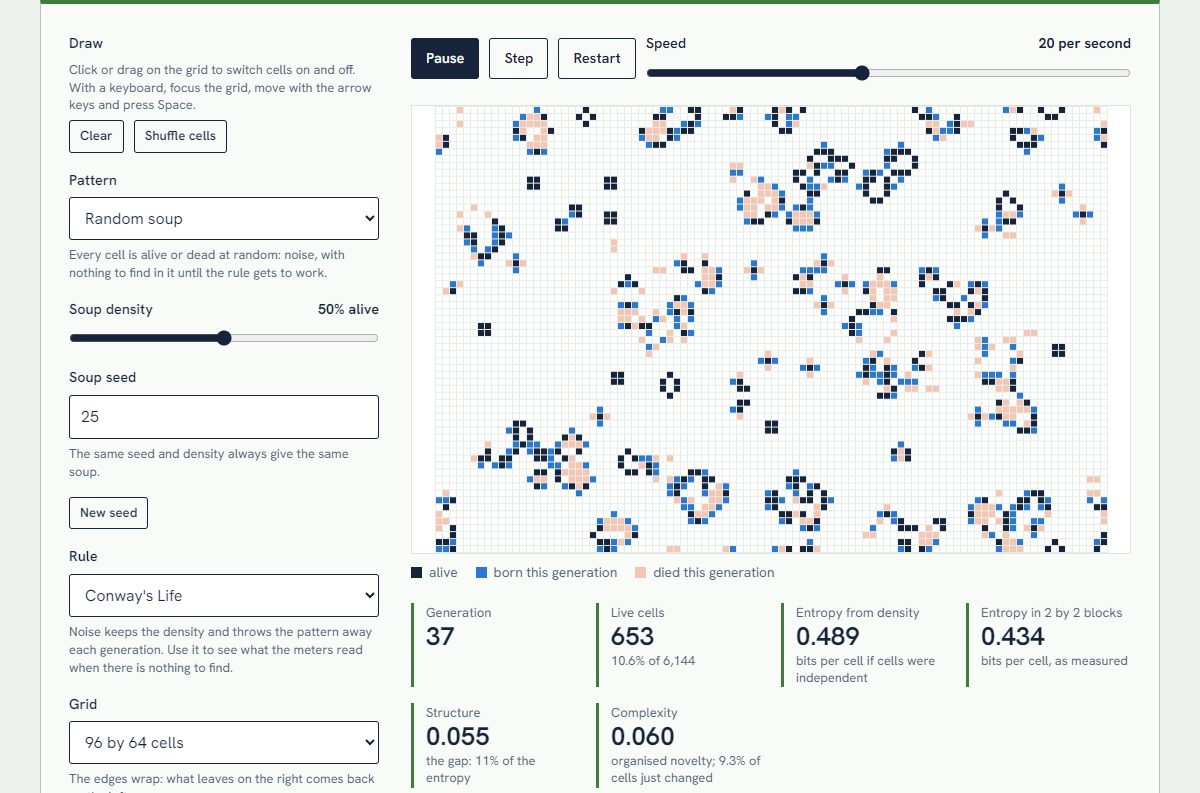
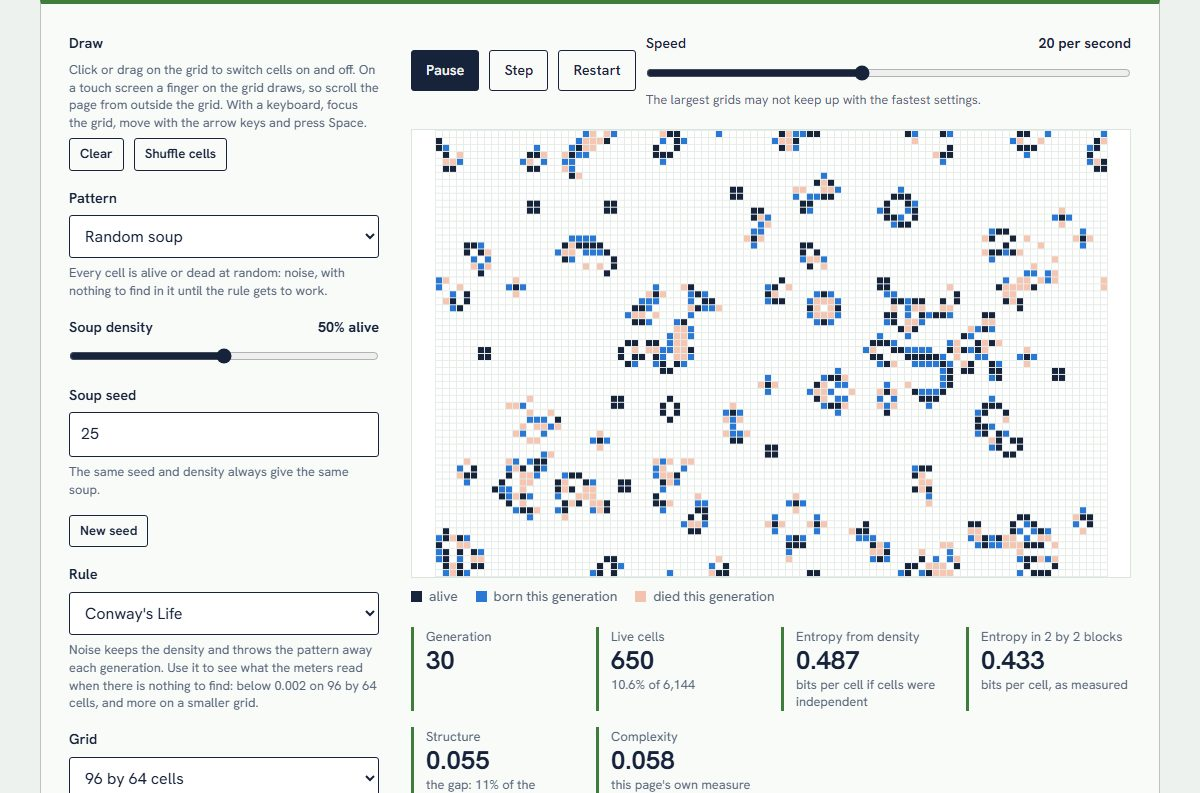
Review project 25: fix touch trap, keep drawings on restart, label the complexity measure

diff --git a/365projects/25/index.html b/365projects/25/index.html
@@ -19,6 +19,10 @@
     .gl-transport .field { flex: 1 1 200px; }
     .gl-stage [role="status"]:empty { display: none; }
     .gl-canvas canvas:focus-visible { outline: 3px solid var(--focus); outline-offset: 2px; }
+    .p-sec.finding p.aside { font: 400 0.98rem/1.55 var(--sans); color: var(--slate); border-left-color: transparent; }
+    .gl-where { margin: 6px 0 0; }
+    .gl-where:empty, .gl-note:empty { display: none; }
+    .gl-text { margin: 8px 0 0; padding: 8px; max-height: 300px; overflow: auto; border: 1px solid var(--grid); background: #fff; font: 0.62rem/1.05 var(--mono); letter-spacing: 0.12em; }
     .gl-key { list-style: none; margin: 8px 0 0; padding: 0; display: flex; flex-wrap: wrap; gap: 4px 18px; }
     .gl-key li { display: inline-flex; align-items: center; gap: 7px; }
     .gl-key i { width: 11px; height: 11px; flex: none; }
@@ -39,13 +43,14 @@
 
     <section class="p-sec finding">
       <h2>One finding</h2>
-      <p>A 96 by 64 soup with half its cells alive (seed 25) starts as noise: 1.000 bits of entropy per cell and 0.000 of structure. One generation of Life's rule cuts the density to 26.4% and creates 0.015 bits per cell of structure. Structure peaks at 0.070 at generation 48 and complexity at 0.079 at generation 160. At generation 1,770 the grid starts to repeat with 157 cells left: structure is still 0.030 and 0.9% of cells still flip every generation, but complexity is exactly zero. Noise redrawn every generation never reads above 0.002 on either meter.</p>
+      <p>A 96 by 64 soup with half its cells alive (seed 25) starts as noise: 1.000 bits of entropy per cell and 0.000 of structure. One generation of Life's rule cuts the density to 26.4% and creates 0.015 bits per cell of structure. Structure peaks at 0.070 at generation 48, and complexity, a measure made for this page and not a standard one, at 0.079 at generation 160. At generation 1,770 the grid starts to repeat with 157 cells left: structure is still 0.030 and 0.9% of cells still flip every generation, but complexity is exactly zero. On the same grid, noise redrawn every generation stayed below 0.002 on both meters for 8,000 generations.</p>
+      <p class="aside">A phone opens this page on a smaller grid, 48 by 32, where the same seed settles at generation 188 with 60 cells. Choose "96 by 64 cells" under Grid to see the run described here.</p>
     </section>
 
     <section class="p-sec">
       <h2>The idea</h2>
-      <p>John Conway's Game of Life has one rule, and it fits in a sentence: a cell is alive in the next generation if exactly three of its eight neighbours are alive now, or if it is alive now and exactly two are. Martin Gardner introduced it to the public in 1970. The glider, five cells that walk across the grid, was already known. Within the year Bill Gosper's group had found a gun that fires gliders for ever, and Berlekamp, Conway and Guy later showed that the rule can carry out any computation at all. None of these things is mentioned in the rule.</p>
-      <p>That gap is what the word <strong>emergence</strong> points at, and Life is the cleanest place to argue about it because nothing is hidden. A <strong>reductionist</strong> says, correctly, that every cell at every moment is fixed by the rule and the starting grid, so there is nothing over and above the cells. The reply, which Mark Bedau called weak emergence, grants that and adds two things. First, the glider is a pattern with regularities of its own ("it moves one cell diagonally every four generations") that let you predict the grid with far less work than updating cells. Daniel Dennett used Life to argue that such patterns are real for exactly that reason. Second, for many questions, such as whether a given soup ever settles, nobody knows a shortcut: the only way to find out is to run it. Philip Anderson's slogan for the general point was "more is different". What Life does not show is strong emergence, in which the higher level would have powers the cells and the rule do not fix. Here they fix everything, by construction.</p>
+      <p>John Conway's Game of Life has one rule, and it fits in a sentence: a cell is alive in the next generation if exactly three of its eight neighbours are alive now, or if it is alive now and exactly two are. Martin Gardner introduced it to the public in October 1970. The glider, five cells that walk across the grid, was already known. Before the year was out Bill Gosper's group at MIT had found a gun that fires gliders for ever, and Berlekamp, Conway and Guy later showed that the rule can carry out any computation at all. None of these things is mentioned in the rule.</p>
+      <p>That gap is what the word <strong>emergence</strong> points at, and Life is the cleanest place to argue about it because nothing is hidden. A <strong>reductionist</strong> says, correctly, that every cell at every moment is fixed by the rule and the starting grid, so there is nothing over and above the cells. The reply grants that and adds two things. First, the glider is a pattern with regularities of its own ("it moves one cell diagonally every four generations") that let you predict the grid with far less work than updating cells. Daniel Dennett used Life to argue that such patterns are real for exactly that reason. Second, for many questions, such as whether a given soup ever settles, nobody knows a shortcut: the only way to find out is to run it. Mark Bedau called this weak emergence: the large-scale behaviour follows from the rule, but can be derived only by simulating it. Philip Anderson's slogan for the general point was "more is different". What Life does not show is strong emergence, in which, on David Chalmers's definition, truths about the higher level could not be deduced even in principle from the lower one. Here the cells and the rule fix everything, by construction.</p>
       <p>The argument is not only about toy grids. When Hayek described prices as coordinating knowledge that no single mind holds, and when Schelling showed that mild individual preferences can produce sharply segregated cities, they were making claims of the same shape: an order that nobody put in, which is better described at its own level than at the level of its parts. Whether such descriptions explain anything, or merely summarise, is a live question in economics, in politics and in the philosophy of mind.</p>
       <p>This page tries the obvious empirical move: put a number on "order that was not put in" and watch it. The meters do show the rule manufacturing pattern out of noise. Whether that is a measurement of emergence is a separate question, and the answer given below is mostly no.</p>
     </section>
@@ -56,48 +61,53 @@
       <p>The grid has <var>N</var> cells, each 0 or 1, and wraps at its edges, so every cell has exactly eight neighbours and a glider that leaves on the right comes back on the left. Each generation the tool counts the live neighbours of every cell in the current grid and writes the result into a second array: alive if the count is 3, or if the count is 2 and the cell is alive already. The arrays are typed arrays of bytes and are reused, so nothing is allocated while it runs.</p>
       <h3>Density and the entropy it allows</h3>
       <p>The density <var>ρ</var> is the share of cells that are alive. If that were all you knew, and cells were independent of one another, describing the grid would cost</p>
-      <p class="eq"><var>H</var><sub>1</sub> = −<var>ρ</var> log<sub>2</sub> <var>ρ</var> − (1 − <var>ρ</var>) log<sub>2</sub>(1 − <var>ρ</var>) &nbsp; bits per cell</p>
-      <p>This is Shannon's entropy of a biased coin. It is 1 bit when half the cells are alive and 0 when the grid is empty or full. It says how much disorder the density leaves room for, not how much there is.</p>
+      <p class="eq"><var>H</var><sub>1</sub> = −<var>ρ</var> log<sub>2</sub> <var>ρ</var> − (1 − <var>ρ</var>) log<sub>2</sub>(1 − <var>ρ</var>)</p>
+      <p>bits per cell. This is Shannon's entropy of a biased coin. It is 1 bit when half the cells are alive and 0 when the grid is empty or full. It says how much disorder the density leaves room for, not how much there is.</p>
       <h3>Entropy in 2 by 2 blocks</h3>
       <p>To see how much disorder there is, the tool looks at cells four at a time. Every cell is taken once as the top-left corner of a 2 by 2 block, wrapping at the edges, which gives <var>N</var> overlapping blocks. Each block is one of 16 patterns. With <var>p</var><sub><var>b</var></sub> the share of blocks showing pattern <var>b</var>,</p>
-      <p class="eq"><var>H</var><sub>4</sub> = −Σ<sub><var>b</var></sub> <var>p</var><sub><var>b</var></sub> log<sub>2</sub> <var>p</var><sub><var>b</var></sub> &nbsp; bits per block, &nbsp; <var>h</var><sub>2</sub> = <var>H</var><sub>4</sub> / 4 &nbsp; bits per cell</p>
+      <p class="eq"><var>H</var><sub>4</sub> = −Σ<sub><var>b</var></sub> <var>p</var><sub><var>b</var></sub> log<sub>2</sub> <var>p</var><sub><var>b</var></sub> &nbsp; bits per block<br><var>h</var><sub>2</sub> = <var>H</var><sub>4</sub> / 4 &nbsp; bits per cell</p>
       <h3>Structure</h3>
       <p class="eq"><var>S</var> = <var>H</var><sub>1</sub> − <var>h</var><sub>2</sub></p>
-      <p>Because of the wrap, each of the four positions in a block is alive in exactly a share <var>ρ</var> of blocks, so independent cells would give <var>H</var><sub>4</sub> = 4<var>H</var><sub>1</sub>. The entropy of a whole is never more than the sum of the entropies of its parts, and equals it only when the parts are independent. So <var>S</var> is never negative, and it is zero only when the four cells of a block are independent of one another. 4<var>S</var> is what Watanabe called the total correlation of the block: the bits saved by describing four neighbours together instead of one by one. A checkerboard scores 0.75, because half its cells are alive yet only two of the sixteen blocks ever occur.</p>
+      <p>Because of the wrap, each of the four positions in a block is alive in exactly a share <var>ρ</var> of blocks, so independent cells would give <var>H</var><sub>4</sub> = 4<var>H</var><sub>1</sub>. The entropy of a whole is never more than the sum of the entropies of its parts, and equals it only when the parts are independent. So <var>S</var> is never negative, and it is zero only when the four cells of a block are independent of one another. 4<var>S</var> is what Watanabe called the total correlation of the block: the bits saved by describing four neighbours together instead of one by one. "Structure" is this page's name for it. A checkerboard scores 0.75, because half its cells are alive yet only two of the sixteen blocks ever occur, and nothing can score more: <var>H</var><sub>4</sub> is never less than the entropy of one of its four cells, so <var>S</var> is at most three quarters of <var>H</var><sub>1</sub>.</p>
       <h3>Activity and complexity</h3>
-      <p>Activity is the share of cells that changed in the last generation. It is high for noise and for a field of blinkers alike, so it is not a measure of anything interesting. For complexity the tool builds a <strong>novelty map</strong>: cell <var>i</var> is marked if its state differs from its state two generations ago.</p>
-      <p class="eq"><var>n</var><sub><var>t</var></sub>(<var>i</var>) = <var>x</var><sub><var>t</var></sub>(<var>i</var>) ⊕ <var>x</var><sub><var>t</var>−2</sub>(<var>i</var>), &nbsp; <var>ν</var> = share of cells marked, &nbsp; <var>C</var> = <var>H</var><sub>1</sub>(<var>ν</var>) − <var>H</var><sub>4</sub>(<var>n</var><sub><var>t</var></sub>) / 4</p>
-      <p>This is the structure measure again, applied to the novelty map in place of the grid. It asks how spatially organised the new things are. It was built to pass three checks. An empty grid has no novelty, so <var>C</var> = 0. A still life has none either, and nor does anything that repeats every two generations, which covers the blinkers that make up nearly all the moving debris Life leaves behind; that is the reason for looking two generations back and not one. Pure noise has plenty of novelty, but each cell's novelty is independent of its neighbours', so the gap closes and <var>C</var> is zero again. What scores above zero is change that hangs together in space: a glider, or the edge of a region that has not yet settled.</p>
+      <p>Activity is the share of cells that changed in the last generation. It is high for noise and for a field of blinkers alike, so it is not a measure of anything interesting.</p>
+      <p><strong>The complexity meter is this page's own construction. It is not a measure from the literature and has not been checked against one.</strong> The tool builds a <strong>novelty map</strong>: cell <var>i</var> is marked if its state differs from its state two generations ago. Complexity is the structure measure again, applied to the novelty map in place of the grid:</p>
+      <p class="eq"><var>n</var><sub><var>t</var></sub>(<var>i</var>) = <var>x</var><sub><var>t</var></sub>(<var>i</var>) ⊕ <var>x</var><sub><var>t</var>−2</sub>(<var>i</var>)<br><var>ν</var> = share of cells marked in <var>n</var><sub><var>t</var></sub><br><var>C</var> = <var>H</var><sub>1</sub>(<var>ν</var>) − <var>H</var><sub>4</sub>(<var>n</var><sub><var>t</var></sub>) / 4</p>
+      <p>Here ⊕ is "exclusive or" (1 when the two states differ), <var>H</var><sub>1</sub>(<var>ν</var>) is the coin entropy above with <var>ν</var> in place of <var>ρ</var>, and <var>H</var><sub>4</sub>(<var>n</var><sub><var>t</var></sub>) is the block entropy above counted on the novelty map. <var>C</var> is in bits per cell and is undefined for the first two generations. It asks how spatially organised the new things are, and it was built to pass three checks. An empty grid has no novelty, so <var>C</var> = 0. A still life has none either, and nor does anything that repeats every two generations, which covers the blinkers that make up nearly all the moving debris Life leaves behind; that is the reason for looking two generations back and not one. Pure noise has plenty of novelty, but each cell's novelty is independent of its neighbours', so the gap closes and <var>C</var> is zero again. What scores above zero is change that hangs together in space: a glider, or the edge of a region that has not yet settled.</p>
+      <p>What it cannot distinguish follows from the definition. It sees only 2 by 2 windows of the novelty map, so a glider, a spaceship and the ragged edge of a dying blob are the same thing to it: so many cells of organised change. It reads above zero for ever for anything that repeats with a period of three or more, such as a pulsar, or a glider going round the wrapped grid, so it does not tell repetition from novelty. And because it is an average over the grid, one object reads lower the larger the grid: a single glider reads about three times lower on a grid with four times the cells.</p>
       <h3>What the meters read on known cases</h3>
       <div class="tbl-wrap">
         <table class="tbl">
           <thead><tr><th scope="col">Grid (96 by 64)</th><th scope="col" class="num">Structure</th><th scope="col" class="num">Complexity</th></tr></thead>
           <tbody>
             <tr><td>Empty</td><td class="num">0.000</td><td class="num">0.000</td></tr>
-            <tr><td>Noise at any density, redrawn every generation</td><td class="num">below 0.002</td><td class="num">below 0.002</td></tr>
+            <tr><td>Noise redrawn every generation, at 5%, 20%, 50% and 80% alive</td><td class="num">below 0.002</td><td class="num">below 0.002</td></tr>
             <tr><td>Checkerboard, frozen</td><td class="num">0.750</td><td class="num">0.000</td></tr>
-            <tr><td>Blinkers on a regular lattice</td><td class="num">0.125</td><td class="num">0.000</td></tr>
-            <tr><td>One glider</td><td class="num">0.002</td><td class="num">0.001</td></tr>
+            <tr><td>Blinkers, one in every 4 by 4 square</td><td class="num">0.134</td><td class="num">0.000</td></tr>
+            <tr><td>One glider</td><td class="num">0.002</td><td class="num">0.001 to 0.003</td></tr>
+            <tr><td>One pulsar, which repeats every 3 generations</td><td class="num">0.014 to 0.028</td><td class="num">0.002 to 0.014</td></tr>
             <tr><td>The seed-25 soup at generation 100</td><td class="num">0.055</td><td class="num">0.061</td></tr>
           </tbody>
         </table>
       </div>
-      <p>All values are bits per cell. The noise figures are not exactly zero because entropies estimated from a finite grid are biased slightly downwards, and by different amounts for single cells and for blocks.</p>
+      <p>All values are bits per cell; complexity is this page's own measure. The glider's and the pulsar's readings depend on which phase of their cycle they are in. The noise figures are not exactly zero because entropies estimated from a finite grid are biased slightly downwards, and by different amounts for single cells and for blocks. The bias shrinks as the grid grows: noise averages about 0.0003 on both meters at 96 by 64 and about 0.0013 at 48 by 32, the grid a phone starts on, where about one generation in four reads 0.002 or more on one meter or the other. Readings that small mean nothing on the small grid.</p>
       <h3>The two controls for checking the meters</h3>
       <p>"Shuffle cells" deals the live cells out to random positions. The density, and so <var>H</var><sub>1</sub>, is untouched; the structure collapses to about zero. Setting the rule to "Noise" redraws every cell at random each generation, at the density the grid had when you switched. Both let you see for yourself what the meters read when there is nothing to find.</p>
       <h3>Settling</h3>
-      <p>After every generation the tool compares the grid with the grid two generations earlier. When they are equal, the pattern is a still life or a period-2 cycle and will never do anything new, so the tool says so and pauses. That is also the moment complexity reaches exactly zero. Random soups are reproducible: the seed and the density fix every cell.</p>
+      <p>After every generation the tool compares the grid with the grid two generations earlier. When they are equal, the pattern is a still life or a period-2 cycle and will never do anything new, so the tool says so and pauses. That is also the moment complexity reaches exactly zero. Random soups are reproducible: the seed and the density fix every cell. "Restart" goes back to generation 0, with anything that was drawn on the grid before it ran.</p>
+      <h3>The grid on a small screen</h3>
+      <p>A finger that starts on the grid draws and does not scroll the page, so the grid is never allowed more than six tenths of the screen's height, which leaves room to scroll from above or below it. Narrow or short screens start on 48 by 32 cells so that a cell is big enough to touch. Every number quoted on this page is for 96 by 64 unless it says otherwise. "Show the grid as text" under the meters gives the same grid as rows of characters.</p>
     </section>
 
     <section class="p-sec">
       <h2>What this cannot tell you</h2>
       <ul>
         <li><strong>Whether anything has emerged.</strong> Claims about emergence are claims about levels of description: that "glider" names something real, that the glider level predicts or explains in a way the cell level does not. The meters are statistics of four neighbouring cells. They register that the rule turns noise into pattern, and they are silent on whether that pattern is a thing, a convenient summary or only a way of talking. A number going up is not an argument for either side.</li>
-        <li><strong>Order from organisation.</strong> Structure is highest for a checkerboard, which nobody finds interesting. A crystal and an organism both depart from randomness. The complexity meter is zero for anything with period 1 or 2, but a period-3 oscillator or a gun firing into a loop for ever scores above zero, so it cannot tell endless repetition from open-ended novelty.</li>
+        <li><strong>Order from organisation.</strong> Structure is highest for a checkerboard, which nobody finds interesting. A crystal and an organism both depart from randomness. The complexity meter is zero for anything with period 1 or 2, but a period-3 oscillator, or a single glider circling the wrapped grid for ever, scores above zero, so it cannot tell endless repetition from open-ended novelty.</li>
         <li><strong>Anything larger than four cells.</strong> The glider gun is 36 cells wide and its function, emitting gliders, is invisible to a 2 by 2 window. A glider and a shapeless dying blob can score the same. Objects, long-range order and anything resembling computation are out of sight.</li>
         <li><strong>How remarkable a pattern is.</strong> Every meter is an average per cell, so it measures how much structure there is across the grid, not how organised any one object is. A single glider on a large grid reads almost nothing, and it is about as organised as five cells can be.</li>
-        <li><strong>What Life does on an unbounded plane.</strong> The edges wrap. The gun's gliders come round and wreck it, and the R-pentomino's debris collides with itself long before the 1,103 generations it needs when it has room.</li>
-        <li><strong>That this is the measure of complexity.</strong> There is no agreed one. Crutchfield's statistical complexity, Bennett's logical depth and the López-Ruiz, Mancini and Calbet measure rank the same patterns differently, and Feldman and Crutchfield argued that the last of these does not measure structure in general. This one was designed to pass three sanity checks. The choice of window, of the two-generation lag and of binary states are all the observer's, which is itself a point in the debate: what counts as pattern depends on the description you bring.</li>
+        <li><strong>What Life does on an unbounded plane.</strong> The edges wrap. On the 96 by 64 grid the gun's gliders come round and hit it by generation 780, and the R-pentomino runs into its own debris and gliders: it settles at generation 1,123 with 142 cells, not at 1,103 with 116 as it does when it has room.</li>
+        <li><strong>That this is the measure of complexity.</strong> There is no agreed one, and the complexity meter here is not any of the published ones: it was made for this page. Crutchfield's statistical complexity, Bennett's logical depth and the López-Ruiz, Mancini and Calbet measure are different quantities with different aims, and Feldman and Crutchfield argued that the last of these is not a general measure of structure. This page's measure was designed to pass three sanity checks and has been tested against nothing else. The choice of window, of the two-generation lag and of binary states are all the observer's, which is itself a point in the debate: what counts as pattern depends on the description you bring.</li>
       </ul>
     </section>
 
@@ -118,7 +128,7 @@
       <ul class="refs">
         <li>Gardner, M. (1970). Mathematical games: the fantastic combinations of John Conway's new solitaire game "life". <em>Scientific American</em>, 223(4), 120-123.</li>
         <li>Berlekamp, E. R., Conway, J. H., and Guy, R. K. (1982). <em>Winning Ways for Your Mathematical Plays</em>, volume 2. Academic Press.</li>
-        <li>Shannon, C. E. (1948). A mathematical theory of communication. <em>Bell System Technical Journal</em>, 27.</li>
+        <li>Shannon, C. E. (1948). A mathematical theory of communication. <em>Bell System Technical Journal</em>, 27(3), 379-423, and 27(4), 623-656.</li>
         <li>Watanabe, S. (1960). Information theoretical analysis of multivariate correlation. <em>IBM Journal of Research and Development</em>, 4(1), 66-82.</li>
         <li>López-Ruiz, R., Mancini, H. L., and Calbet, X. (1995). A statistical measure of complexity. <em>Physics Letters A</em>, 209, 321-326.</li>
         <li>Feldman, D. P., and Crutchfield, J. P. (1998). Measures of statistical complexity: why? <em>Physics Letters A</em>, 238, 244-252.</li>
@@ -129,7 +139,7 @@
         <li>Anderson, P. W. (1972). More is different. <em>Science</em>, 177(4047), 393-396.</li>
         <li>Dennett, D. C. (1991). Real patterns. <em>Journal of Philosophy</em>, 88(1), 27-51.</li>
         <li>Bedau, M. A. (1997). Weak emergence. <em>Philosophical Perspectives</em>, 11, 375-399.</li>
-        <li>Chalmers, D. J. (2006). Strong and weak emergence. In P. Clayton and P. Davies (eds.), <em>The Re-Emergence of Emergence</em>. Oxford University Press.</li>
+        <li>Chalmers, D. J. (2006). Strong and weak emergence. In P. Clayton and P. Davies (eds.), <em>The Re-Emergence of Emergence</em>, 244-254. Oxford University Press.</li>
         <li>Hayek, F. A. (1945). The use of knowledge in society. <em>American Economic Review</em>, 35(4), 519-530.</li>
         <li>Schelling, T. C. (1971). Dynamic models of segregation. <em>Journal of Mathematical Sociology</em>, 1(2), 143-186.</li>
       </ul>

diff --git a/365projects/25/app.js b/365projects/25/app.js
@@ -8,11 +8,13 @@ const SIZES = [[48, 32], [96, 64], [144, 96], [192, 128]];
 const SPEEDS = [1, 2, 5, 10, 20, 30, 60, 120, 240, 480];
 const INK = "#16233b", GREY = "#8a94a3", BORN = "#2a78d6", DIED = "rgba(235, 104, 52, 0.38)", LINE = "#e6ece8";
 const WINDOW = 4000; // generations kept for the charts
-const small = matchMedia("(max-width: 700px)").matches;
+// A narrow or a short screen (a phone, upright or on its side) starts on the smallest grid, so cells are big enough to touch.
+const small = matchMedia("(max-width: 700px), (max-height: 520px)").matches;
 
 const [startW, startH] = small ? SIZES[0] : SIZES[1];
 const sim = {
   w: startW, h: startH, cur: new Uint8Array(startW * startH), prev: new Uint8Array(startW * startH), older: new Uint8Array(startW * startH),
+  start: new Uint8Array(startW * startH), // the grid as it was at generation 0, for Restart
   back: 0,            // how many earlier generations are valid: 0, 1 or 2
   gen: 0, now: null,  // the latest meters
   noise: rng(1), noiseDensity: 0.5,
@@ -32,8 +34,11 @@ const say = (kind, text) => status.replaceChildren(...(text ? [note(kind, text)]
 
 const runBtn = button("Run", () => (loop.running ? pause() : play()), { primary: true });
 const stepBtn = button("Step", () => { pause(); stepOnce(); refresh(true); });
-const restartBtn = button("Restart", () => loadPattern(), { title: "Go back to generation 0 of the chosen pattern" });
-const speed = slider({ label: "Speed", min: 0, max: SPEEDS.length - 1, step: 1, value: 4, format: (i) => `${SPEEDS[i]} per second`, onInput: () => { acc = 0; } });
+const restartBtn = button("Restart", () => setGrid(Uint8Array.from(sim.start)), { title: "Go back to generation 0: the pattern as it was before it ran, with anything drawn on it" });
+const speed = slider({
+  label: "Speed", min: 0, max: SPEEDS.length - 1, step: 1, value: 4, format: (i) => `${SPEEDS[i]} per second`,
+  hint: "The largest grids may not keep up with the fastest settings.", onInput: () => { acc = 0; },
+});
 
 const patternSelect = select({
   label: "Pattern", value: "soup",
@@ -43,19 +48,29 @@ const patternSelect = select({
 const patternHint = el("div", { class: "hint" });
 patternSelect.el.append(patternHint);
 const density = slider({ label: "Soup density", min: 5, max: 95, step: 5, value: 50, format: (v) => `${v}% alive`, onInput: () => { patternSelect.value = "soup"; loadPattern(); } });
-const seed = numberField({ label: "Soup seed", min: 0, max: 4294967295, step: 1, value: 25, hint: "The same seed and density always give the same soup.", onInput: () => { patternSelect.value = "soup"; loadPattern(); } });
-const newSeedBtn = button("New seed", () => { seed.value = randomSeed(); patternSelect.value = "soup"; loadPattern(); }, { small: true });
+const SEED_MAX = 4294967295;
+let soupSeed = 25;    // the last valid seed typed or drawn
+const seed = numberField({ label: "Soup seed", min: 0, max: SEED_MAX, step: 1, value: soupSeed, hint: "The same seed and density always give the same soup." });
+const seedNote = el("div", { class: "gl-note" });
+seed.input.addEventListener("input", () => {
+  if (!Number.isInteger(seed.value)) { seedNote.replaceChildren(note("bad", `The seed must be a whole number from 0 to ${fmt.int(SEED_MAX)}. Until it is, the last valid seed, ${fmt.int(soupSeed)}, stays in use.`)); return; }
+  seedNote.replaceChildren();
+  soupSeed = seed.value;
+  patternSelect.value = "soup";
+  loadPattern();
+});
+const newSeedBtn = button("New seed", () => { soupSeed = randomSeed(); seed.value = soupSeed; seedNote.replaceChildren(); patternSelect.value = "soup"; loadPattern(); }, { small: true });
 
 const rule = select({
   label: "Rule", value: "life",
   options: [{ value: "life", label: "Conway's Life" }, { value: "noise", label: "Noise: redraw every cell at random" }],
-  hint: "Noise keeps the density and throws the pattern away each generation. Use it to see what the meters read when there is nothing to find.",
+  hint: "Noise keeps the density and throws the pattern away each generation. Use it to see what the meters read when there is nothing to find: below 0.002 on 96 by 64 cells, and more on a smaller grid.",
   onChange: () => { sim.noiseDensity = sim.now.density || density.value / 100; sim.settleSeen = false; say("", ""); },
 });
 const size = select({
   label: "Grid", value: `${startW}x${startH}`,
   options: SIZES.map(([w, h]) => ({ value: `${w}x${h}`, label: `${w} by ${h} cells` })),
-  hint: "The edges wrap: what leaves on the right comes back on the left.",
+  hint: `The edges wrap: what leaves on the right comes back on the left.${small ? " A small screen starts on 48 by 32 so that the cells are big enough to touch. The finding below was measured on 96 by 64: choose it here to reproduce it." : ""}`,
   onChange: () => loadPattern(),
 });
 const tint = checkbox({ label: "Colour births and deaths", checked: true, onChange: () => cv.redraw() });
@@ -63,11 +78,11 @@ const tint = checkbox({ label: "Colour births and deaths", checked: true, onChan
 const controls = el("div", { class: "controls" },
   el("div", { class: "field" },
     el("div", { class: "lab" }, el("span", { text: "Draw" })),
-    el("div", { class: "hint", text: "Click or drag on the grid to switch cells on and off. With a keyboard, focus the grid, move with the arrow keys and press Space." }),
+    el("div", { class: "hint", text: "Click or drag on the grid to switch cells on and off. On a touch screen a finger on the grid draws, so scroll the page from outside the grid. With a keyboard, focus the grid, move with the arrow keys and press Space." }),
     el("div", { class: "row" },
       button("Clear", () => { pause(); setGrid(new Uint8Array(sim.w * sim.h), "An empty grid. Draw on it, then press Run."); }, { small: true }),
       button("Shuffle cells", shuffle, { small: true, title: "Move every live cell to a random position: same density, no arrangement" }))),
-  patternSelect.el, density.el, seed.el, el("div", { class: "row" }, newSeedBtn),
+  patternSelect.el, density.el, seed.el, seedNote, el("div", { class: "row" }, newSeedBtn),
   rule.el, size.el, tint.el);
 
 /* ---------- outputs ---------- */
@@ -76,12 +91,24 @@ const sLive = stat("Live cells");
 const sH1 = stat("Entropy from density", "–", "bits per cell if cells were independent");
 const sH2 = stat("Entropy in 2 by 2 blocks", "–", "bits per cell, as measured");
 const sS = stat("Structure", "–", "the gap between the two");
-const sC = stat("Complexity", "–", "organised novelty, bits per cell");
+const sC = stat("Complexity", "–", "this page's own measure, bits per cell");
 const canvasBox = el("div", { class: "gl-canvas" });
 const legend = el("ul", { class: "gl-key small muted" },
   el("li", {}, el("i", { style: { background: INK } }), "alive"),
   el("li", {}, el("i", { style: { background: BORN } }), "born this generation"),
   el("li", {}, el("i", { style: { background: DIED } }), "died this generation"));
+// Where the keyboard cursor is, in words: the grid itself is a picture.
+const where = el("p", { class: "gl-where small muted", "aria-live": "polite" });
+// The grid as text, for anyone who cannot see the picture or wants to copy a pattern.
+const gridText = el("pre", { class: "gl-text", role: "region", "aria-label": "The grid as text", tabindex: "0" });
+const gridDetails = el("details", { class: "chart-table", ontoggle: () => writeGridText() },
+  el("summary", { text: "Show the grid as text" }),
+  el("p", { text: "One character for each cell: O is alive and a dot is dead. While the grid runs the text is brought up to date a few times a second." }),
+  gridText);
+const about = el("p", { class: "small muted" },
+  "Structure is the gap between the two entropies. ",
+  el("strong", { text: "Complexity is this page's own construction, not a published measure: " }),
+  "the same gap, worked out on the map of cells that differ from two generations ago. It reads zero for anything still or repeating every two generations and close to zero for noise, and it cannot tell a glider from any other small patch of organised change, or something that repeats every three generations from something new. The definitions are under \"How it works\".");
 const entropyBox = el("div");
 const structureBox = el("div");
 const densityBox = el("div");
@@ -90,9 +117,10 @@ const densityBox = el("div");
 $("#app").append(el("div", { class: "gl-grid" },
   el("div", { class: "out gl-stage" },
     el("div", { class: "row gl-transport" }, runBtn, stepBtn, restartBtn, speed.el),
-    el("div", {}, canvasBox, legend),
+    el("div", {}, canvasBox, legend, where),
     status, // below the grid, so that a message appearing or clearing never moves the cells under the pointer
-    el("div", { class: "stats" }, sGen.el, sLive.el, sH1.el, sH2.el, sS.el, sC.el)),
+    el("div", { class: "stats", id: "gl-stats" }, sGen.el, sLive.el, sH1.el, sH2.el, sS.el, sC.el),
+    about, gridDetails),
   controls,
   el("div", { class: "out gl-charts" }, entropyBox, el("div", { class: "grid2" }, structureBox, densityBox))));
 
@@ -106,12 +134,18 @@ const structureChart = chart(structureBox, {
   title: "Structure and complexity", height: 220, x: xAxis, y: { label: "Bits per cell", zero: true, format: bits }, series: [],
 });
 const densityChart = chart(densityBox, {
-  title: "Density and activity", height: 220, x: xAxis, y: { label: "Share of cells", zero: true, format: (v) => fmt.pct(v, 0) }, series: [],
+  title: "Density and activity", subtitle: "Density is the share of cells alive. Activity is the share that changed in the last generation, whatever the pattern.", height: 220, x: xAxis, y: { label: "Share of cells", zero: true, format: (v) => fmt.pct(v, 0) }, series: [],
 });
 
 /* ---------- the grid ---------- */
+// A touch that starts on the grid draws and cannot scroll the page, so the grid never takes more than six
+// tenths of the screen's height: there is always room above or below it for a finger. 100svh is the viewport
+// at its smallest, which stays the same while a phone's address bar slides in and out.
+const probe = el("div", { "aria-hidden": "true", style: { position: "fixed", top: "0", left: "0", width: "0", height: "100svh", visibility: "hidden", pointerEvents: "none" } });
+document.body.append(probe);
 const geometry = (width) => {
-  const cell = Math.max(1, Math.floor((width - 1) / sim.w));
+  const room = 0.6 * (probe.offsetHeight || window.innerHeight);
+  const cell = Math.max(1, Math.min(Math.floor((width - 1) / sim.w), Math.floor((room - 1) / sim.h)));
   return { cell, ox: Math.floor((width - cell * sim.w) / 2) };
 };
 const cv = canvas(canvasBox, {
@@ -152,9 +186,21 @@ const cv = canvas(canvasBox, {
 });
 cv.el.tabIndex = 0;
 cv.el.setAttribute("role", "application");
-cv.el.setAttribute("aria-label", "Life grid. Arrow keys move the cursor, Space switches a cell on or off.");
+cv.el.setAttribute("aria-describedby", "gl-stats");
 cv.el.style.touchAction = "none";
 cv.el.style.cursor = "crosshair";
+window.addEventListener("resize", () => cv.redraw()); // the kit redraws when the width changes; the height limit needs this too
+
+/** Say where the keyboard cursor is. The state of the cell is left out while the grid is running, because it would be out of date at once. */
+function tellWhere() {
+  where.textContent = !cursor ? "" : `Cursor: column ${cursor.x + 1} of ${sim.w}, row ${cursor.y + 1} of ${sim.h}${loop.running ? "" : sim.cur[cursor.y * sim.w + cursor.x] ? ", alive" : ", dead"}.`;
+}
+function writeGridText() {
+  if (!gridDetails.open) return;
+  const lines = [];
+  for (let y = 0; y < sim.h; y++) { let line = ""; for (let x = 0; x < sim.w; x++) line += sim.cur[y * sim.w + x] ? "O" : "."; lines.push(line); }
+  gridText.textContent = lines.join("\n");
+}
 
 const cellAt = (e) => {
   const box = cv.el.getBoundingClientRect();
@@ -171,6 +217,7 @@ function setCell(x, y, value) {
 }
 /** After the visitor changes cells by hand: earlier generations no longer explain this one. */
 function edited(charts = false) {
+  if (sim.gen === 0) sim.start = Uint8Array.from(sim.cur); // drawn before running: Restart brings it back
   sim.back = 0;
   sim.settleSeen = false;
   record(true);
@@ -211,11 +258,12 @@ cv.el.addEventListener("keydown", (e) => {
   if (!move && e.key !== " " && e.key !== "Enter") return;
   e.preventDefault();
   cursor ||= { x: Math.floor(sim.w / 2), y: Math.floor(sim.h / 2) };
-  if (move) { cursor.x = (cursor.x + move[0] + sim.w) % sim.w; cursor.y = (cursor.y + move[1] + sim.h) % sim.h; cv.redraw(); return; }
+  if (move) { cursor.x = (cursor.x + move[0] + sim.w) % sim.w; cursor.y = (cursor.y + move[1] + sim.h) % sim.h; cv.redraw(); tellWhere(); return; }
   setCell(cursor.x, cursor.y, sim.cur[cursor.y * sim.w + cursor.x] ? 0 : 1);
   edited(true);
+  tellWhere();
 });
-cv.el.addEventListener("blur", () => { if (cursor) { cursor = null; cv.redraw(); } });
+cv.el.addEventListener("blur", () => { if (cursor) { cursor = null; cv.redraw(); tellWhere(); } });
 
 /* ---------- simulation ---------- */
 function record(replace) {
@@ -229,6 +277,7 @@ function record(replace) {
 
 function setGrid(cells, message = "") {
   sim.cur = cells;
+  sim.start = Uint8Array.from(cells);
   sim.prev = new Uint8Array(cells.length);
   sim.older = new Uint8Array(cells.length);
   sim.back = 0;
@@ -238,6 +287,7 @@ function setGrid(cells, message = "") {
   record(false);
   sim.noiseDensity = sim.now.density || density.value / 100;
   cursor = null;
+  tellWhere();
   acc = 0;
   say("", message);
   refresh(true);
@@ -247,14 +297,15 @@ function loadPattern() {
   const [w, h] = size.value.split("x").map(Number);
   sim.w = w;
   sim.h = h;
+  cv.el.setAttribute("aria-label", `Life grid, ${w} by ${h} cells. Arrow keys move the cursor, Space or Enter switches a cell on or off.`);
   const key = patternSelect.value;
-  const soupSeed = Number.isFinite(seed.value) ? Math.floor(seed.value) : 25;
   patternHint.textContent = key === "soup" ? "Every cell is alive or dead at random: noise, with nothing to find in it until the rule gets to work." : PATTERNS.find((p) => p.key === key).note;
   setGrid(key === "soup" ? randomGrid(w, h, density.value / 100, soupSeed) : patternGrid(key, w, h));
 }
 
 function shuffle() {
   sim.cur = shuffled(sim.cur, 1000 + sim.shuffles++);
+  if (sim.gen === 0) sim.start = Uint8Array.from(sim.cur);
   sim.back = 0;
   sim.settleSeen = false;
   record(true);
@@ -277,7 +328,7 @@ function stepOnce() {
     const wasRunning = loop.running;
     pause();
     say("", sim.now.live === 0
-      ? `Generation ${fmt.int(sim.gen)}: every cell has died. An empty grid reads zero on every meter.`
+      ? `Generation ${fmt.int(sim.gen)}: no cell is alive. An empty grid reads zero on every meter.`
       : same(sim.cur, sim.prev)
         ? `Generation ${fmt.int(sim.gen)}: nothing changes any more. What is left is still lifes: structure without activity, so complexity reads zero.${wasRunning ? " Paused." : ""}`
         : `Generation ${fmt.int(sim.gen)}: the grid now repeats every two generations. Only still lifes and blinkers are left, so complexity has fallen to zero while structure and activity have not.${wasRunning ? " Paused." : ""}`);
@@ -306,7 +357,11 @@ function drawCharts() {
     ],
     marks: latest([["h1", GREY], ["h2", palette[0]]]),
   });
+  // The highest reading of each line and where it fell, so that a peak can be read off without hunting for it.
+  const peak = (k) => hist[k].reduce((best, v, i) => (v != null && v > best.v ? { v, g: hist.gen[i] } : best), { v: -1, g: 0 });
+  const pS = peak("structure"), pC = peak("complexity");
   structureChart.update({
+    subtitle: `Complexity is this page's own measure, not a standard one. Highest on this chart: structure ${bits(pS.v)} at generation ${fmt.int(pS.g)}${pC.v >= 0 ? `, complexity ${bits(pC.v)} at generation ${fmt.int(pC.g)}` : ""}.`,
     x: { ...xAxis, domain }, y: { label: "Bits per cell", domain: [0, top(0.02, "structure", "complexity")], format: bits },
     series: [{ name: "Structure", data: line("structure"), color: 0 }, { name: "Complexity", data: line("complexity"), color: 1 }],
     marks: latest([["structure", palette[0]], ["complexity", palette[1]]]),
@@ -316,6 +371,7 @@ function drawCharts() {
     series: [{ name: "Density", data: line("density"), color: 2 }, { name: "Activity", data: line("activity"), color: 3 }],
     marks: latest([["density", palette[2]], ["activity", palette[3]]]),
   });
+  writeGridText();
 }
 
 function refresh(charts) {
@@ -325,7 +381,7 @@ function refresh(charts) {
   sH1.set(bits(m.h1));
   sH2.set(bits(m.h2));
   sS.set(bits(m.structure), m.h1 > 0 ? `the gap: ${fmt.pct(m.structure / m.h1, 0)} of the entropy` : "the gap between the two");
-  sC.set(m.complexity == null ? "–" : bits(m.complexity), m.complexity == null ? "needs two earlier generations" : `organised novelty; ${fmt.pct(m.activity, 1)} of cells just changed`);
+  sC.set(m.complexity == null ? "–" : bits(m.complexity), m.complexity == null ? "this page's own measure; it needs two earlier generations" : `this page's own measure of organised novelty; ${fmt.pct(m.activity, 1)} of cells just changed`);
   runBtn.textContent = loop.running ? "Pause" : "Run";
   cv.redraw();
   if (charts || performance.now() - chartsAt > 180) drawCharts();

diff --git a/365projects/25/logic.js b/365projects/25/logic.js
@@ -47,11 +47,11 @@ export const PATTERNS = [
     O....
     O...O
     OOOO.`) },
-  { key: "rpentomino", label: "R-pentomino", note: "Five cells that take 1,103 generations to settle on an unbounded plane. On this wrapped grid its debris collides with itself sooner.", rows: rows(`
+  { key: "rpentomino", label: "R-pentomino", note: "Five cells that take 1,103 generations to settle on an unbounded plane, leaving 116. On this wrapped grid its debris and gliders come round and collide, so it ends differently: at generation 1,123 with 142 cells on 96 by 64.", rows: rows(`
     .OO
     OO.
     .O.`) },
-  { key: "gun", label: "Gosper glider gun", note: "Thirty-six cells that fire a glider every 30 generations. On a wrapped grid the gliders come round and hit the gun.", rows: rows(`
+  { key: "gun", label: "Gosper glider gun", note: "Thirty-six cells that fire a glider every 30 generations. On a wrapped grid the gliders come round and hit the gun: on 96 by 64, by generation 780.", rows: rows(`
     ........................O...........
     ......................O.O...........
     ............OO......OO............OO

diff --git a/365projects/25/README.md b/365projects/25/README.md
@@ -7,8 +7,8 @@ Live at https://varad-patel.github.io/365projects/25/ (part of [365 projects in 
 | | |
 |---|---|
 | Question | Can a live entropy and complexity meter show order appearing in the Game of Life, and is that the same thing as emergence? |
-| One finding | A 96 by 64 random soup starts with 0.000 bits per cell of spatial structure, reaches 0.070 by generation 48, and settles at generation 1,770 with structure still at 0.030 but complexity at exactly zero, while pure noise never reads above 0.002 on either meter. |
-| Main limit | The meters are statistics of 2 by 2 blocks of cells: they show that the rule creates pattern, not that anything has emerged in the sense philosophers argue about. |
+| One finding | A 96 by 64 random soup starts with 0.000 bits per cell of spatial structure, reaches 0.070 by generation 48, and settles at generation 1,770 with structure still at 0.030 but complexity, a measure made for this page, at exactly zero, while pure noise on the same grid stays below 0.002 on both meters. |
+| Main limit | The meters are statistics of 2 by 2 blocks of cells, and the complexity meter is this page's own construction: they show that the rule creates pattern, not that anything has emerged in the sense philosophers argue about. |
 | PPE concept | Emergence, reductionism |
 | Skills | Cellular automata, entropy |
 | Data | None. Everything is computed in the browser. |
